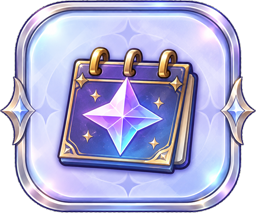
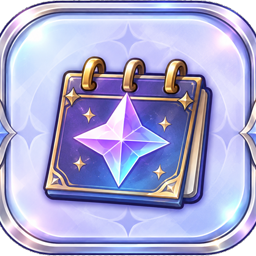
fix(허브 스킨): 판타지 벌 — 출석 아이콘을 다른 셋과 같은 크기로, 경험치 채움을 진하게
받은 출석 아이콘만 틀이 캔버스의 85% 로 작게 그려지고 양옆에 별 장식이 붙어 있어 여백을 잘라도
틀만 작아 보였다(2026-09-15 지적). 틀 경계로 다시 잘라 넷이 같은 크기다. 경험치 채움은 옅은
청록이라 흰 홈 위에서 비어 보여 이 벌만 채움에 saturate/brightness 필터를 얹었다 — 그림을
다시 받으면 필터를 지운다.

Claude-Session: https://claude.ai/code/session_0149JEBnHnDyaKnLPH5RRGdS

diff --git a/src/styles/hub.css b/src/styles/hub.css
@@ -1632,6 +1632,8 @@ html.dark .hub .hub-modal-backdrop { background: rgba(0,0,0,.6); }
   --skin-gauge-ink: #3b2a7a;
   --skin-gauge-ink-shadow: 0 1px 0 rgba(255, 255, 255, .55);
 }
+/* 경험치 채움이 옅은 청록이라 흰 홈 위에서 비어 보인다(2026-09-15 지적) — 이 벌만 채움을 진하게 덮는다. 그림을 다시 받으면 지울 것. */
+.hub[data-ui='fantasy'] .exp-fill { filter: saturate(1.7) brightness(.82); }
 @media (min-width: 768px) {
   .hub[data-ui='fantasy'] {
     --skin-panel-title: 20px;
